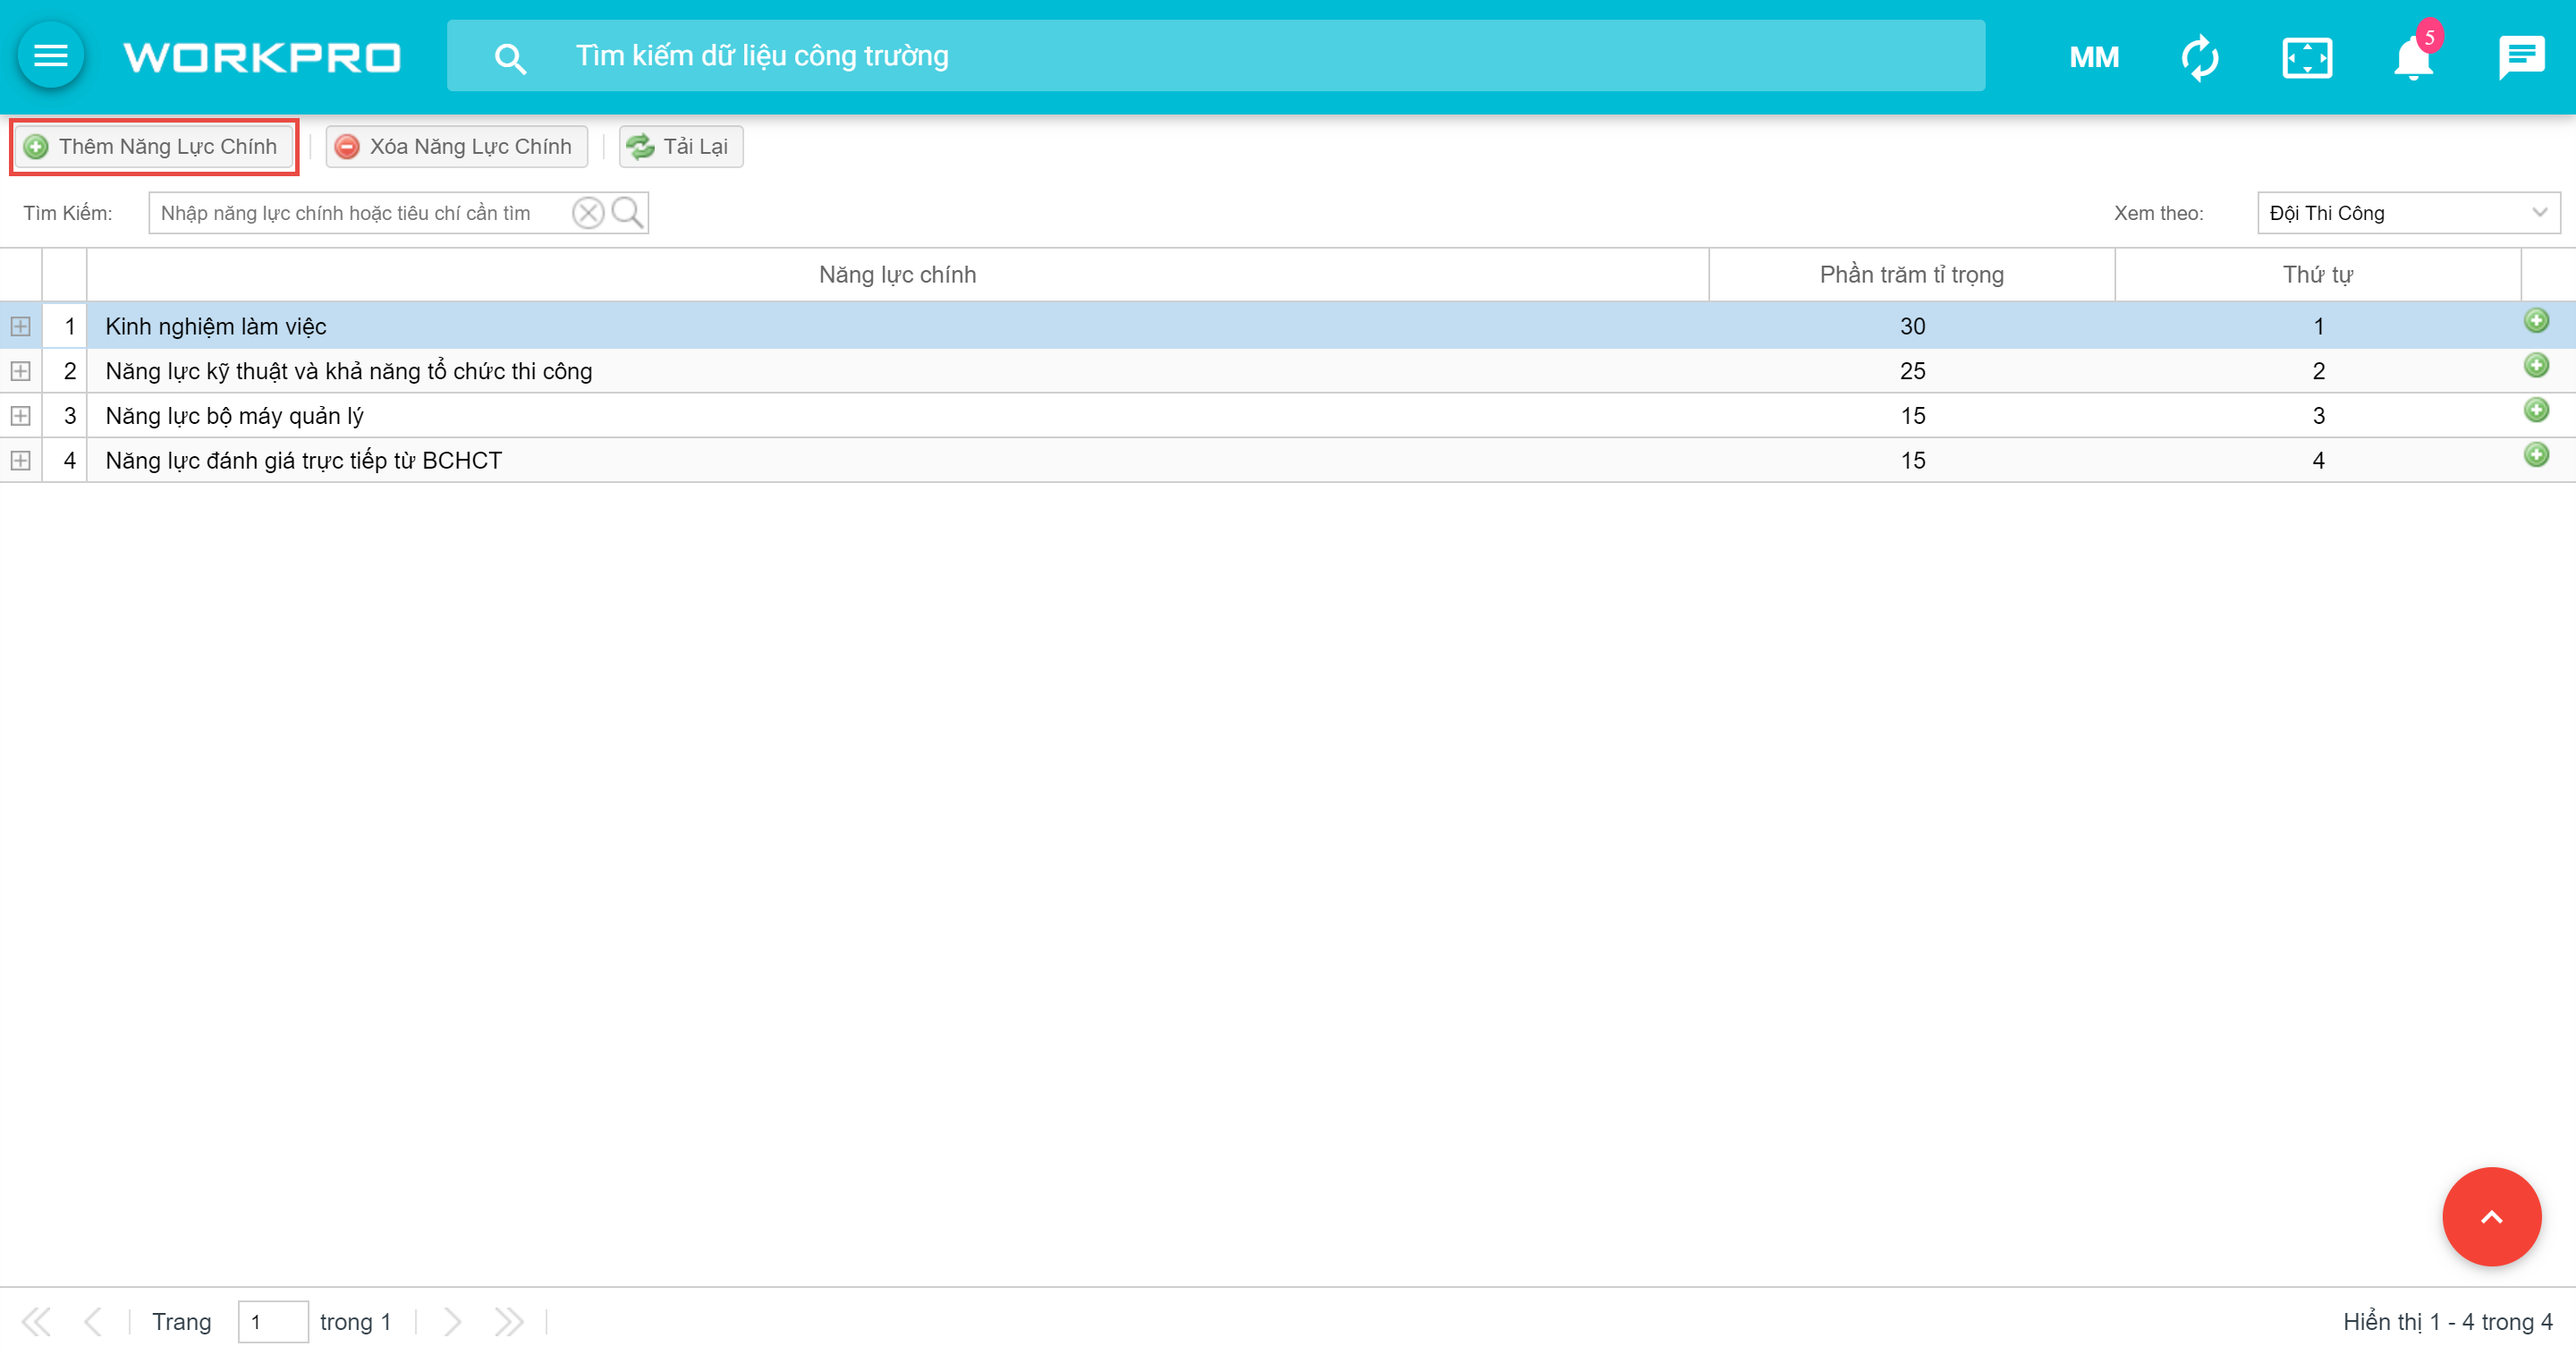
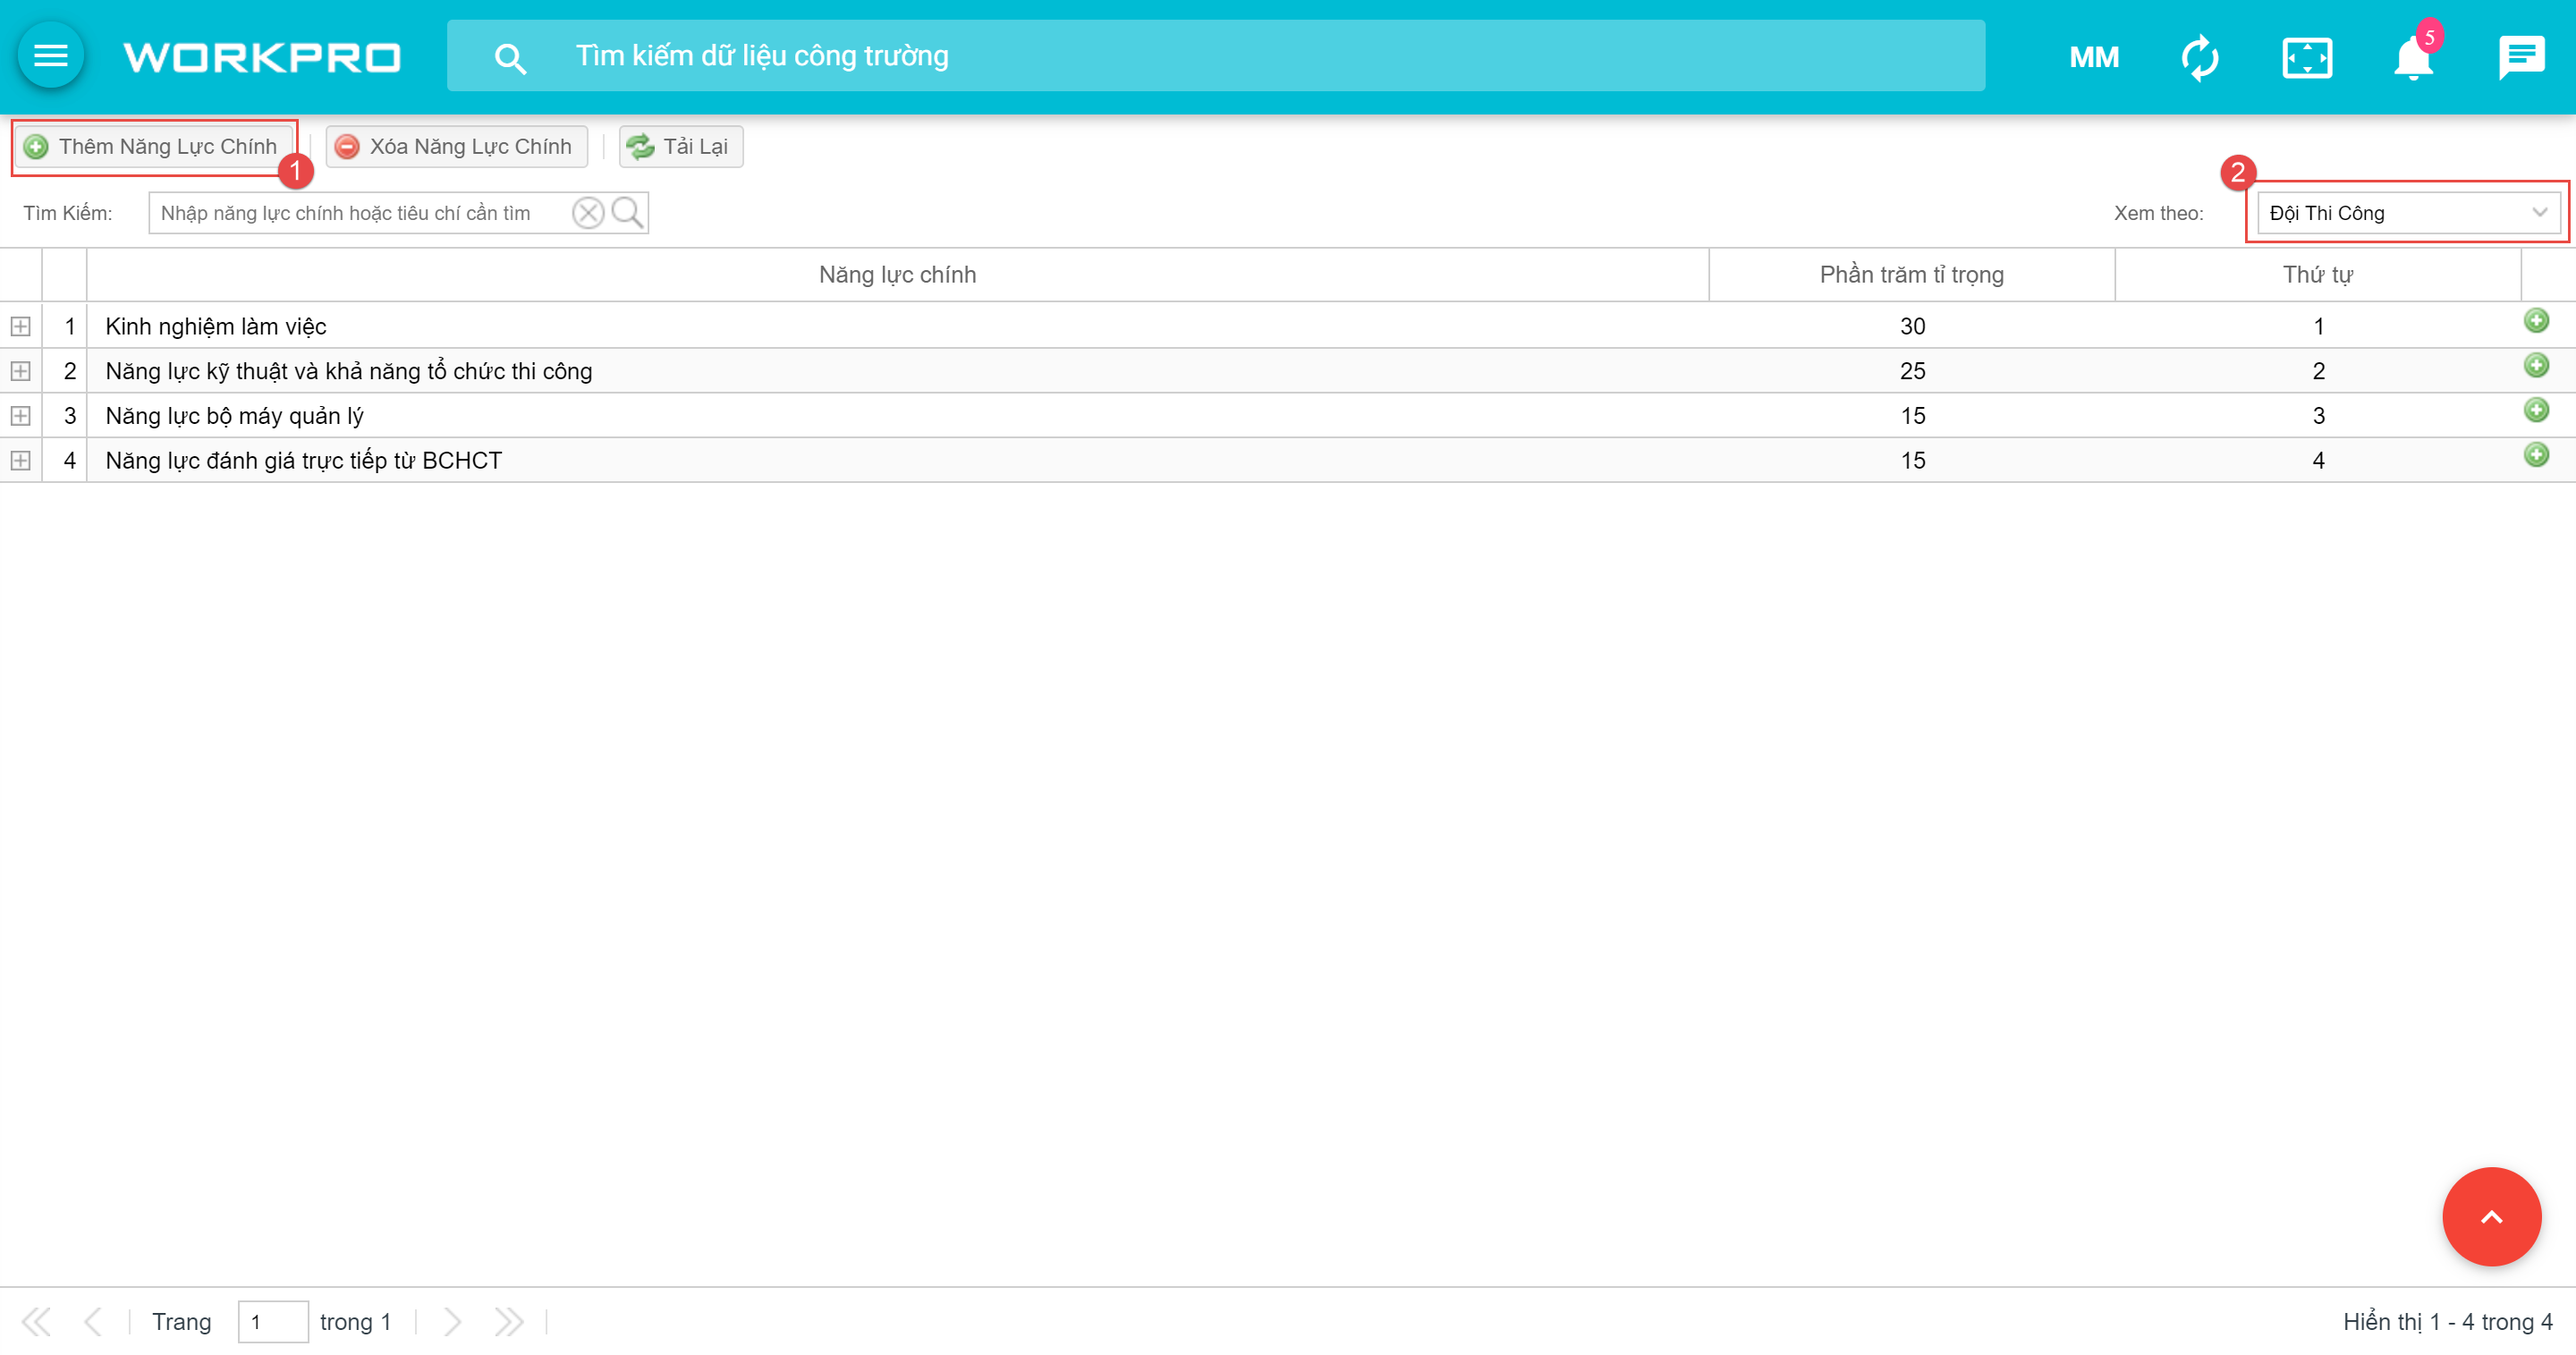
thêm phần chọn loại LLTC

Changed region(s): [[0.0, 0.2172, 1.0, 0.2792], [0.0938, 0.0931, 0.125, 0.1551], [0.8438, 0.1241, 0.875, 0.1551]]

diff --git a/docs/_docs/en/4.2-Sua_tieu_chi_danh_gia.md b/docs/_docs/en/4.2-Sua_tieu_chi_danh_gia.md
@@ -7,20 +7,20 @@ sidebar:
 ---
 ### **1. Chỉnh sửa tiêu chí đánh giá chính**
 
-Click đúp chuột vào từng dòng để sửa từng tiêu chí (1)
+Chọn loại lực lượng thi công (1), click đúp chuột vào từng dòng để sửa từng tiêu chí (2)
 
 ![](assets\LLTCRate\LLTC_Rate_006.png)
 
 Nhập lại các thông tin cần chỉnh sửa:
 
-* (2): Tên tiêu chí chính
-* (3): Phần trăm tỉ trọng trong tổng số các tiêu chí chính
-* (4): Thứ tự tiêu chí chính
+* (3): Tên tiêu chí chính
+* (4): Phần trăm tỉ trọng trong tổng số các tiêu chí chính
+* (5): Thứ tự tiêu chí chính
 
 Thao tác:
 
-* (5): Lưu lại thông tin chỉnh sửa
-* (6): Thoát nhập liệu, các thông tin đã nhập sẽ không được lưu
+* (6): Lưu lại thông tin chỉnh sửa
+* (7): Thoát nhập liệu, các thông tin đã nhập sẽ không được lưu
 
 ### **2. Chỉnh sửa tiêu chí đánh giá phụ**
 

diff --git a/docs/_docs/en/4.1-Them_tieu_chi_danh_gia.md b/docs/_docs/en/4.1-Them_tieu_chi_danh_gia.md
@@ -7,7 +7,7 @@ sidebar:
 ---
 ### **1. Màn hình thêm tiêu chí đánh giá chính**
 
-Chọn “Thêm Năng Lực Chính” trên màn hình quản lý tiêu chí
+Chọn “Thêm Năng Lực Chính” (1) trên màn hình quản lý tiêu chí, (2) chọn loại lực lượng thi công được áp dụng: Đội thi công, Nhà thầu phụ
 
 ![](assets\LLTCRate\LLTC_Rate_003.png)
 
